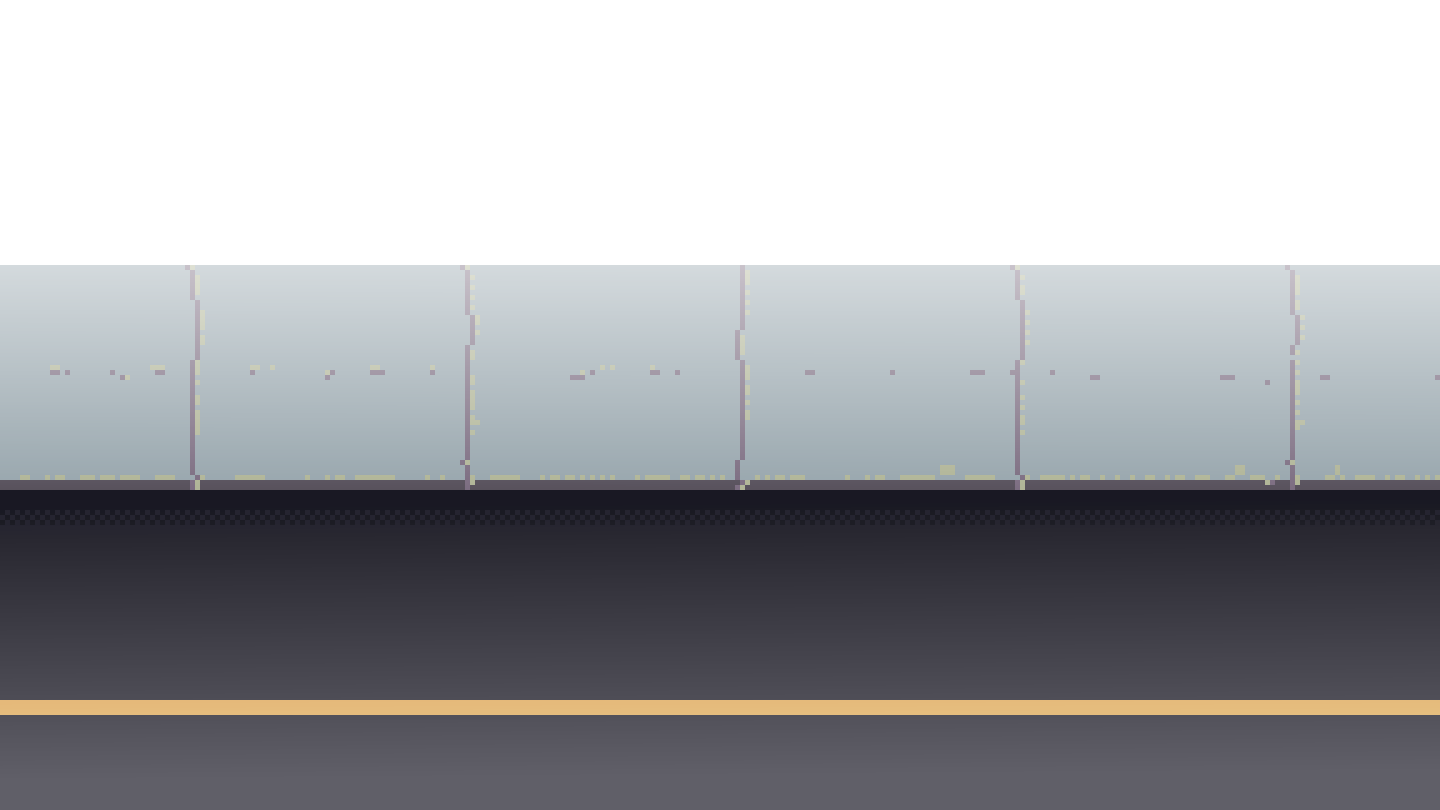
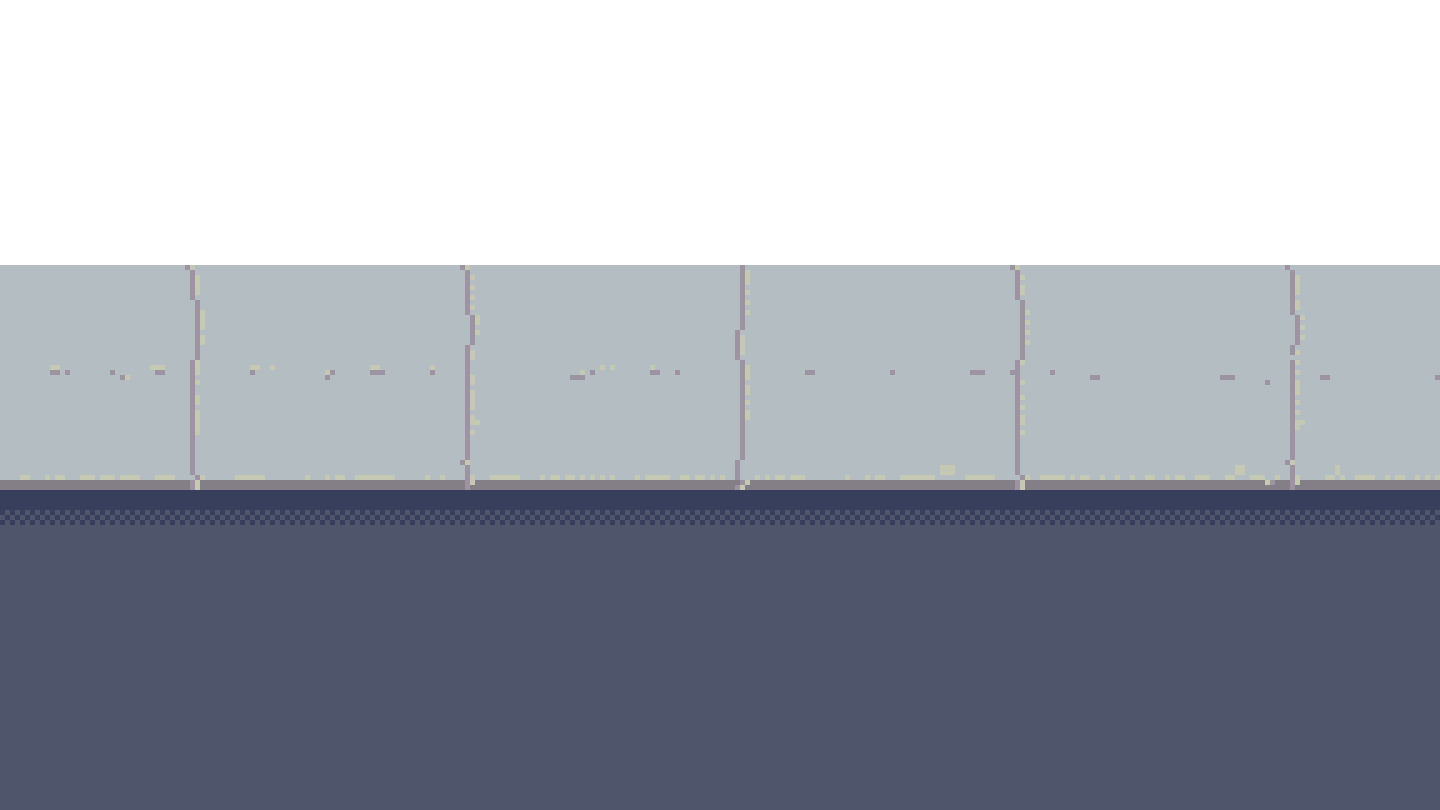
(1/1)[game design] sistema de mudança de levels

diff --git a/CareerOpportunities/Game1.cs b/CareerOpportunities/Game1.cs
@@ -50,7 +50,8 @@ namespace CareerOpportunities
         
         public Game1()
         {
-            scale = 3;
+            this.scale = 3;
+            this.Level = 1;
             graphics = new GraphicsDeviceManager(this);
             graphics.PreferredBackBufferWidth = 288 * scale;
             graphics.PreferredBackBufferHeight = 162 * scale;
@@ -103,11 +104,12 @@ namespace CareerOpportunities
                 if (this.status == GameStatus.PLAY)
                 {
                     Vector2 screemSize = new Vector2(graphics.PreferredBackBufferWidth, graphics.PreferredBackBufferHeight);
-                    camera.Update(gameTime, Player.Position, screemSize);
-                    Map.Update(gameTime, 130);
-                    Player.Update(gameTime, this.InputGK, Map, Hearts, Coins, camera, Weapon);
-                    Weapon.Update(gameTime, Map);
-                    Boss.Update(gameTime);
+                    this.camera.Update(gameTime, Player.Position, screemSize);
+                    this.Map.Update(gameTime, 130);
+                    this.Level = Map.CurrentlyLevel;
+                    this.Player.Update(gameTime, this.InputGK, Map, Hearts, Coins, camera, Weapon);
+                    this.Weapon.Update(gameTime, Map);
+                    this.Boss.Update(gameTime);
 
                     if (Hearts.NumberOfhearts == 0)
                     {
@@ -125,8 +127,13 @@ namespace CareerOpportunities
                         this.PauseMenu.ItemSelected = PauseMenuManagement.MenuStatus.NONE;
                     }
                 }
-
-                if (Map.Finished()) this.status = GameStatus.WIN;
+                Console.WriteLine(Map.CurrentlyLevel);
+                if (Map.Finished())
+                {
+                    this.Level = Map.NextLevel();
+                    
+                    this.status = GameStatus.WIN;
+                }
 
             }
 
@@ -161,6 +168,12 @@ namespace CareerOpportunities
                     }
                 }
 
+                if (this.status == GameStatus.WIN)
+                {
+                    Map = null;
+                    this.LoadingLevel = true;
+                }
+
                 if (this.status == GameStatus.MENU)
                 {
                     MainMenu.Update(gameTime, this.InputGK);
@@ -178,15 +191,13 @@ namespace CareerOpportunities
         protected override void Draw(GameTime gameTime)
         {
             // Start Game
-            spriteBatch.Begin(SpriteSortMode.Deferred, null, SamplerState.PointClamp, null, null, null, camera.transformMatrix());
             this.DrawPlay();
-            spriteBatch.End();
             // end Game
 
             // Menu and Game HUD
             spriteBatch.Begin(SpriteSortMode.Deferred, null, SamplerState.PointClamp, null, null, null, null);
 
-            if ((!this.isLevelReady() && !this.isMainMenuReady()) || (!this.isLevelReady() && this.isMainMenuReady() && this.status == GameStatus.PLAY))
+            if ((!this.isLevelReady() && !this.isMainMenuReady()) || (!this.isLevelReady() && this.isMainMenuReady() && this.status == GameStatus.PLAY) || (this.status == GameStatus.WIN) )
             {
                 spriteBatch.Draw(this.loadingScreen, new Vector2(0, 0), null, Color.White, 0, new Vector2(0, 0), scale, SpriteEffects.None, 0f);
             }
@@ -209,13 +220,16 @@ namespace CareerOpportunities
         {
             if (this.isLevelReady() && this.status == GameStatus.PLAY)
             {
+                spriteBatch.Begin(SpriteSortMode.Deferred, null, SamplerState.PointClamp, null, null, null, camera.transformMatrix());
                 GraphicsDevice.Clear(Color.CornflowerBlue);
                 Map.DrawGround(spriteBatch);
                 Map.Layers(spriteBatch, Player.CurrentVerticalLine, false);
                 Player.Draw(spriteBatch);
                 Boss.Draw(spriteBatch);
                 Map.Layers(spriteBatch, Player.CurrentVerticalLine, true);
-                Weapon.Draw(spriteBatch);
+                spriteBatch.End();
+                
+                Weapon.Draw(spriteBatch, camera);
             }
         }
 
@@ -239,14 +253,15 @@ namespace CareerOpportunities
             Coins = new CoinManagement(Content.Load<Texture2D>("sprites/coin-hud"), this.font3, this.scale);
             Player = new PlayerController(Content.Load<Texture2D>("prototype/Jim"), scale, graphics.PreferredBackBufferHeight, graphics.PreferredBackBufferWidth, this.path + "/Content/prototype/jim.json");
             Map = new Level.Render(scale, graphics.PreferredBackBufferHeight, graphics.PreferredBackBufferWidth);
+            Map.setLevel(this.Level);
             Map.jsonContent = null;
             Map.setGround(Content.Load<Texture2D>("prototype/esteira-prototype"));
             Map.setBoxTexture(Content.Load<Texture2D>("prototype/box_2"), Content.Load<Texture2D>("prototype/box_4_2"));
             Map.setBoxShadow(Content.Load<Texture2D>("prototype/box_2_shadows"));
-            Map.setCoinTexture(Content.Load<Texture2D>("sprites/coin-animation-2"), this.path +"/Content/sprites/coin.json");
+            Map.setCoinTexture(Content.Load<Texture2D>("sprites/coin"), this.path +"/Content/sprites/coin.json");
             Map.setHeartTexture(Content.Load<Texture2D>("prototype/heart"));
             Map.setRampTexture(Content.Load<Texture2D>("prototype/rampa"));
-            Map.setTileMap(Content.Load<Texture2D>("prototype/level_1t"));
+            Map.setTileMap(Content.Load<Texture2D>("Maps/level_" + this.Level));
             Boss = new Boss(Content.Load<Texture2D>("prototype/boss_1"), this.scale);
             Weapon = new Gun(this.scale, Content.Load<Texture2D>("sprites/bullet"), this.path + "/Content/sprites/bullet.json");
             Weapon.Screem = new Vector2(graphics.PreferredBackBufferWidth, graphics.PreferredBackBufferHeight);

diff --git a/CareerOpportunities/Level/Render.cs b/CareerOpportunities/Level/Render.cs
@@ -31,6 +31,9 @@ namespace CareerOpportunities.Level
         int BufferHeight;
         int tileWidth = 34;
 
+        public int CurrentlyLevel;
+        public int LastLevel = 2;
+
         public enum TypeOfItems { 
             NONE,
             BOX,
@@ -118,6 +121,16 @@ namespace CareerOpportunities.Level
         {
             if (CurrentStopFramesNum > stopFramesNum) return true;
             else return false;
+        }
+
+        public void setLevel(int level)
+        {
+            this.CurrentlyLevel = level;
+        }
+
+        public int NextLevel()
+        {
+            return this.CurrentlyLevel + 1;
         }
 
         public TypeOfItems ColorToType(Color color)
@@ -260,7 +273,7 @@ namespace CareerOpportunities.Level
 
         public bool Finished()
         {
-            if (-this.currentPositionX + (this.start * this.scale) > (this.TileMapWidth * 32) * this.scale) return true;
+            if (-this.currentPositionX + (this.start * this.scale) > ((this.TileMapWidth * 30) + (100)) * this.scale) return true;
             return false;
         }
 

diff --git a/CareerOpportunities/Animation.cs b/CareerOpportunities/Animation.cs
@@ -87,10 +87,11 @@ namespace CareerOpportunities
                 {
                     if (tag == (string)this.json.meta.frameTags[i].name)
                     {
-                        this.a_from    = (int)this.json.meta.frameTags[i].from;
-                        this.a_to      = (int)this.json.meta.frameTags[i].to;
-                        this.tag       = (string)this.json.meta.frameTags[i].name;
-                        this.direction = (string)this.json.meta.frameTags[i].direction;
+                        this.a_from       = (int)this.json.meta.frameTags[i].from;
+                        this.a_to         = (int)this.json.meta.frameTags[i].to;
+                        this.tag          = (string)this.json.meta.frameTags[i].name;
+                        this.direction    = (string)this.json.meta.frameTags[i].direction;
+                        this.frameCurrent = 0;
                         break;
                     }
                     i++;

diff --git a/CareerOpportunities/weapon/Gun.cs b/CareerOpportunities/weapon/Gun.cs
@@ -43,13 +43,15 @@ namespace CareerOpportunities.weapon
             this.bullets.Add(new Bullet(this.Sprite, this.Scale, new Vector2(Position.X, Position.Y - (10 * this.Scale))));
         }
 
-        public void Draw(SpriteBatch spriteBatch)
+        public void Draw(SpriteBatch spriteBatch, CameraManagement camera)
         {
+            spriteBatch.Begin(SpriteSortMode.Deferred, null, SamplerState.PointClamp, null, null, null, camera.transformMatrix());
             for (int i = 0; i < this.bullets.Count; i++)
             {
                 this.DrawAnimation(spriteBatch, this.bullets[i].Position, this.Scale);
                 // spriteBatch.Draw(this.bullets[i].Sprite, this.bullets[i].Position, null, Color.White, 0, new Vector2(0, 0), this.Scale, this.bullets[i].spriteEffect, 0f);
             }
+            spriteBatch.End();
         }
 
     }

diff --git a/CareerOpportunities/CameraManagement.cs b/CareerOpportunities/CameraManagement.cs
@@ -74,7 +74,7 @@ namespace CareerOpportunities
         private void UpdateZoomJump(float delta)
         {
             this.TimeZoomCurrent -= delta;
-            float alpha = MathHelper.ToRadians(this.TimeZoom - 0.3f);
+            float alpha = MathHelper.ToRadians(this.TimeZoom - 0.1f);
 
             if (this.TimeZoomCurrent > 0)
             {
